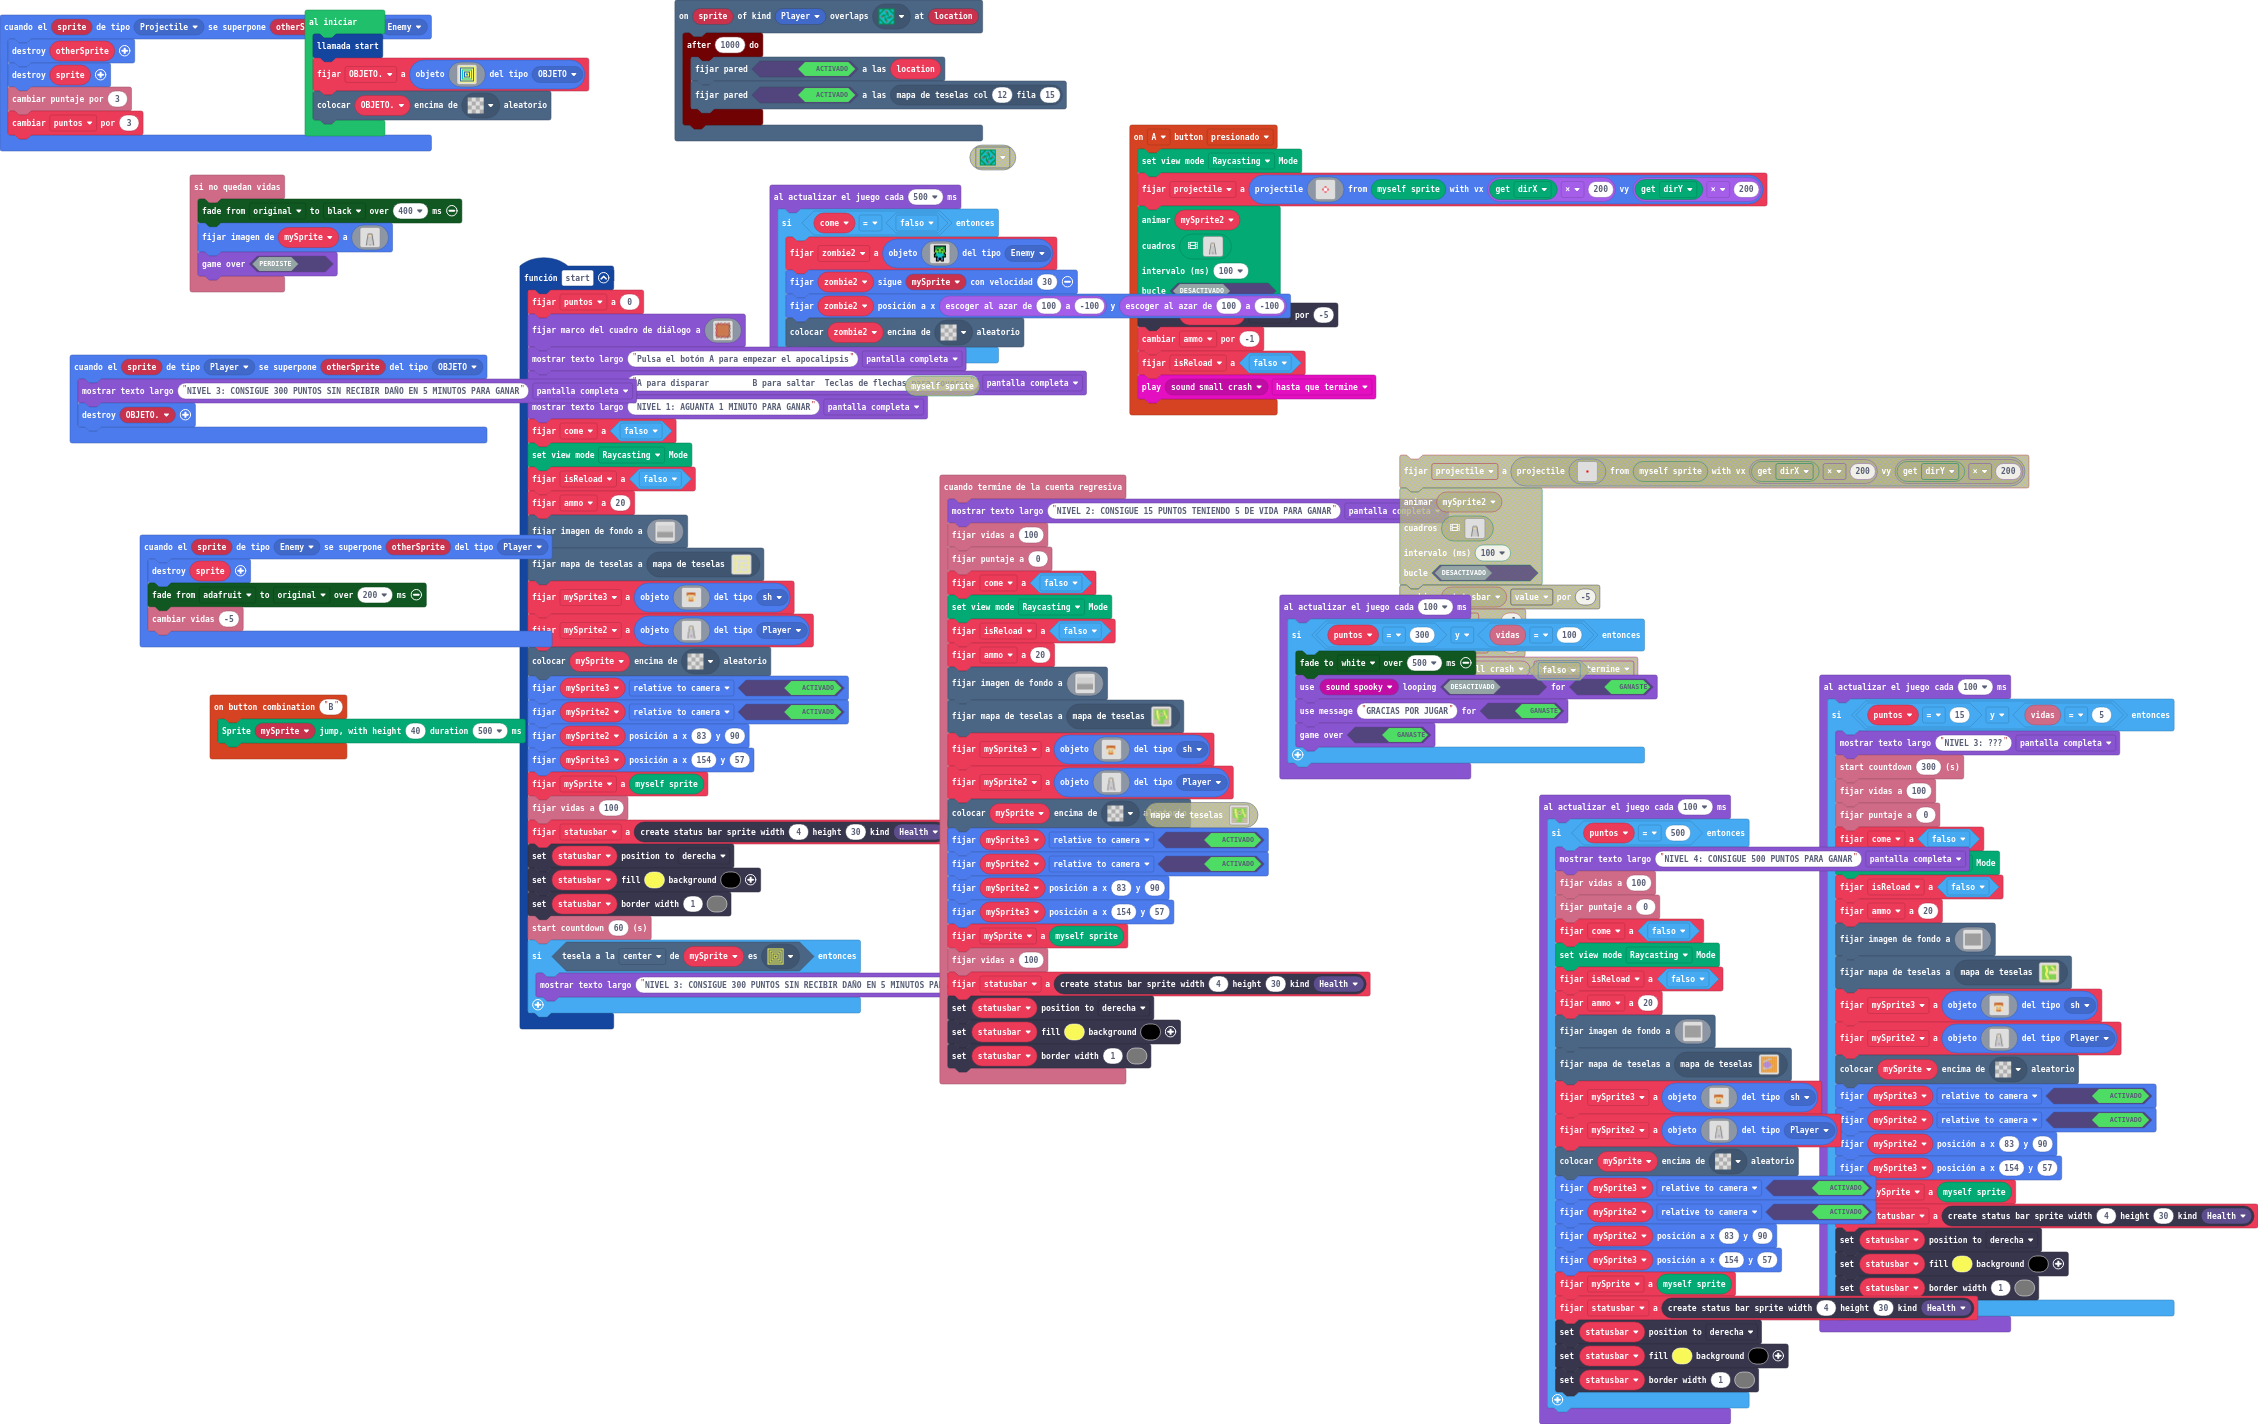
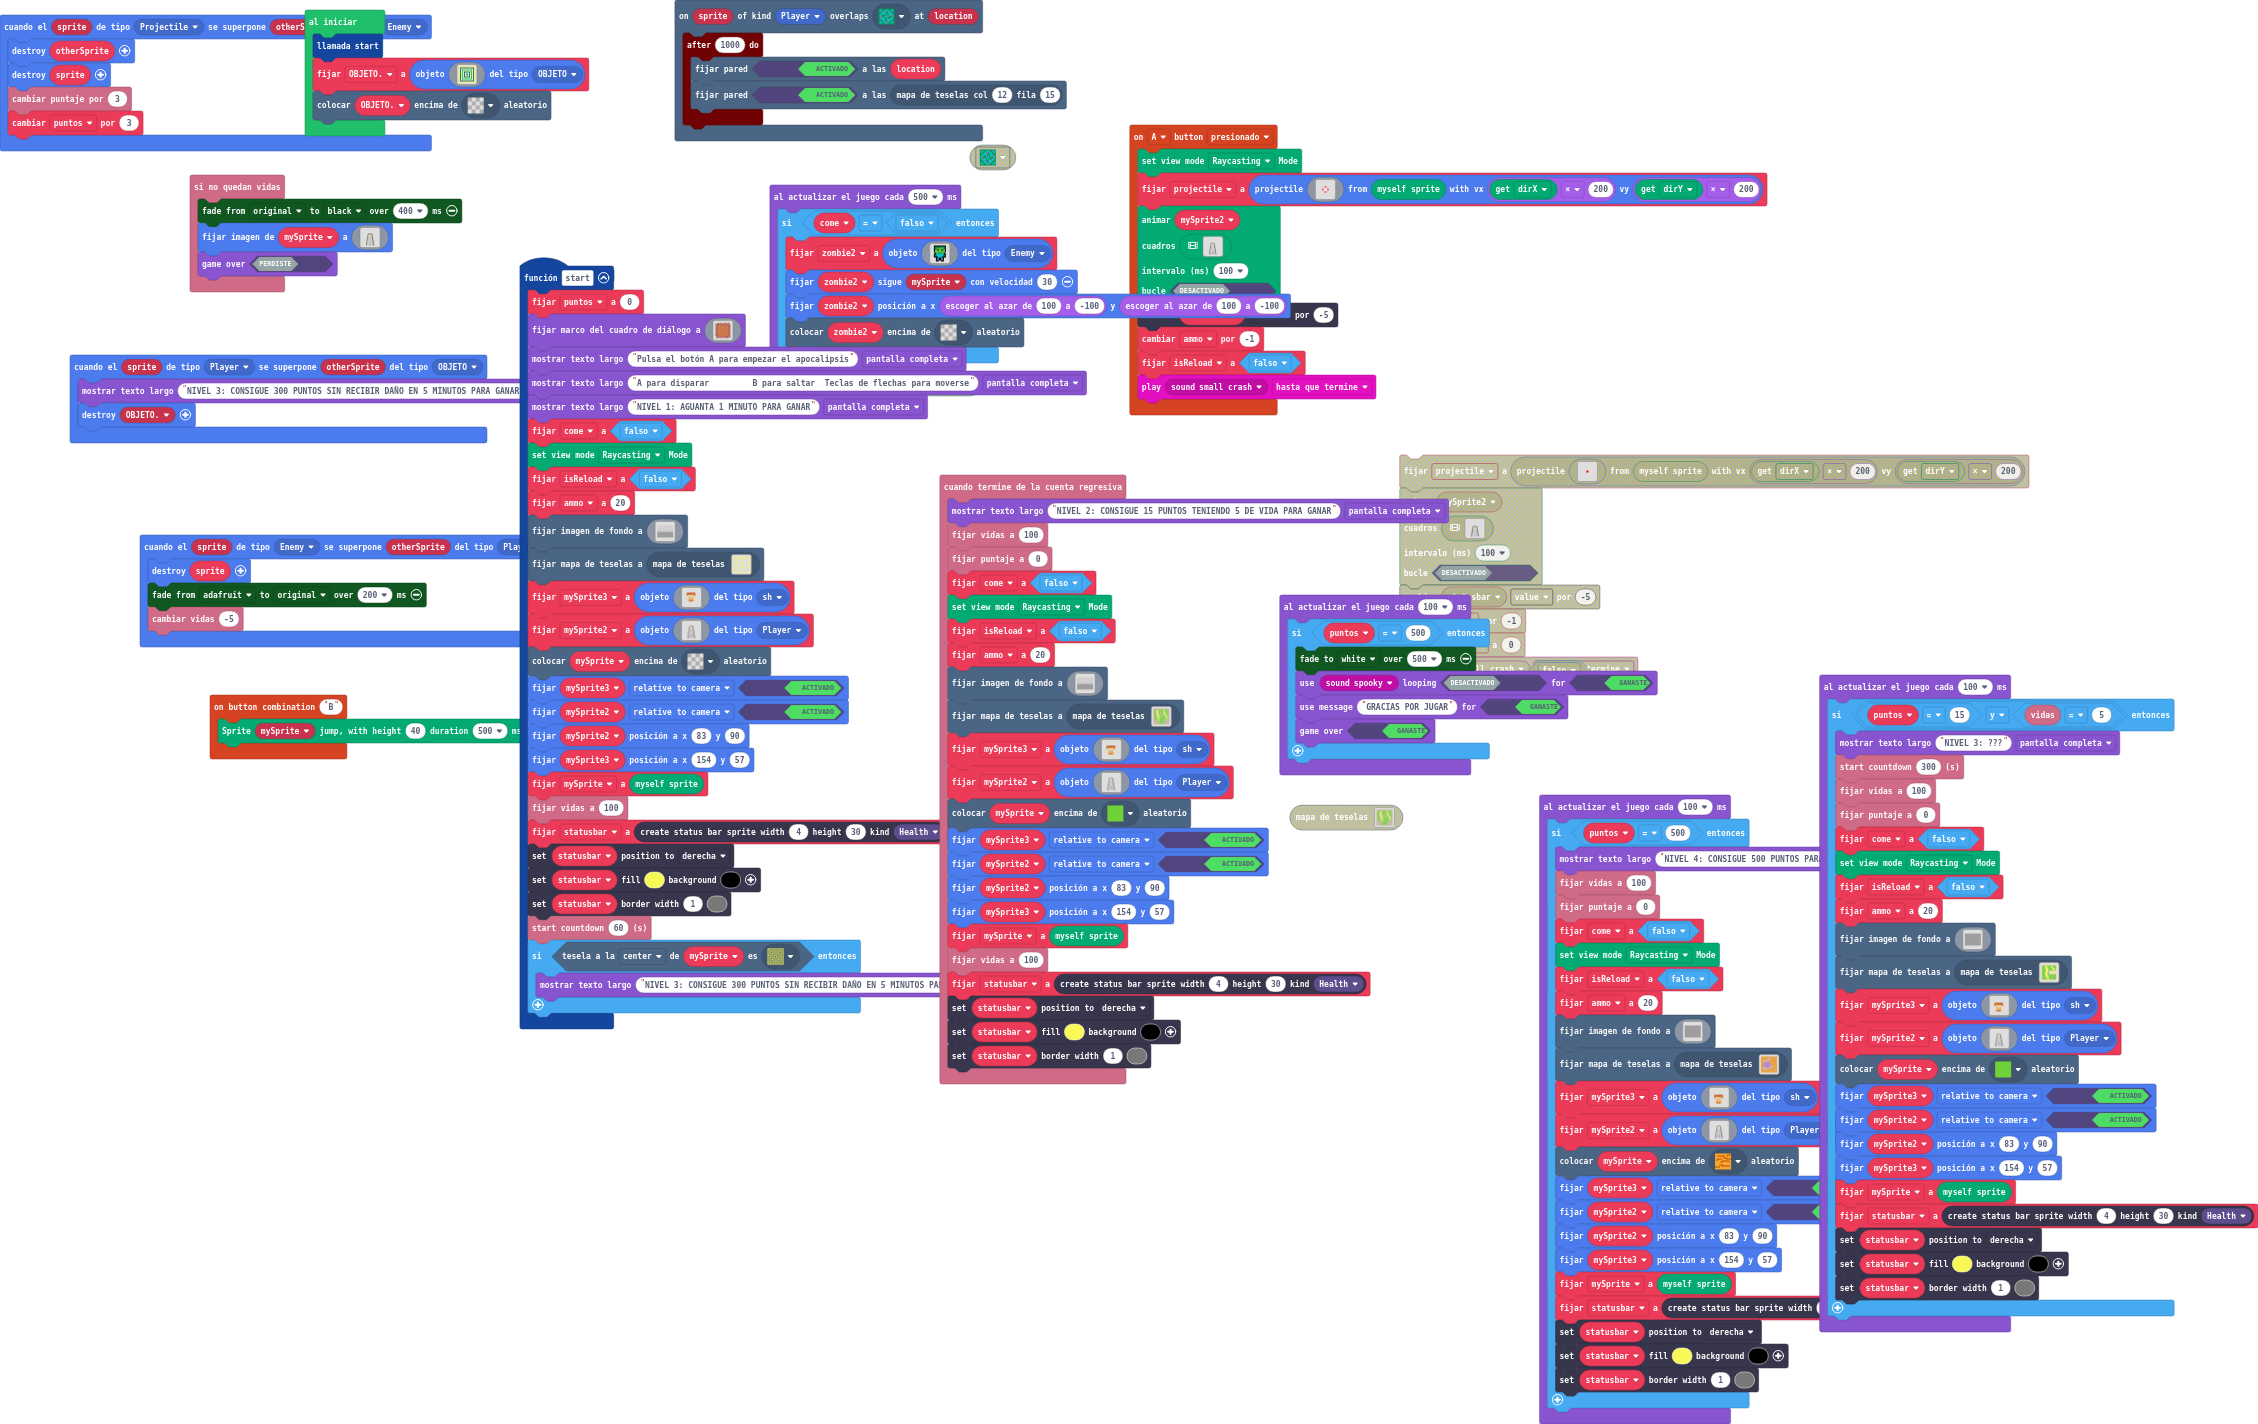
Actualizar main.blocks, main.ts

diff --git a/main.ts b/main.ts
@@ -384,7 +384,7 @@ info.onCountdownEnd(function () {
         ...........fccbbbbbbbbbbbbbbbbbbbbbbccf...........
         ...........fccbbbbbbbbbbbbbbbbbbbbbbccf...........
         `, SpriteKind.Player)
-    tiles.placeOnRandomTile(mySprite, assets.tile`transparency16`)
+    tiles.placeOnRandomTile(mySprite, sprites.skillmap.islandTile4)
     mySprite3.setFlag(SpriteFlag.RelativeToCamera, true)
     mySprite2.setFlag(SpriteFlag.RelativeToCamera, true)
     mySprite2.setPosition(83, 90)
@@ -805,7 +805,7 @@ game.onUpdateInterval(500, function () {
     }
 })
 game.onUpdateInterval(100, function () {
-    if (puntos == 300 && info.life() == 100) {
+    if (puntos == 500) {
         color.startFadeFromCurrent(color.White, 500)
         game.setGameOverPlayable(true, music.melodyPlayable(music.spooky), false)
         game.setGameOverMessage(true, "GRACIAS POR JUGAR")
@@ -1024,7 +1024,7 @@ game.onUpdateInterval(100, function () {
             ...........fccbbbbbbbbbbbbbbbbbbbbbbccf...........
             ...........fccbbbbbbbbbbbbbbbbbbbbbbccf...........
             `, SpriteKind.Player)
-        tiles.placeOnRandomTile(mySprite, assets.tile`transparency16`)
+        tiles.placeOnRandomTile(mySprite, sprites.skillmap.islandTile4)
         mySprite3.setFlag(SpriteFlag.RelativeToCamera, true)
         mySprite2.setFlag(SpriteFlag.RelativeToCamera, true)
         mySprite2.setPosition(83, 90)
@@ -1247,7 +1247,7 @@ game.onUpdateInterval(100, function () {
             ...........fccbbbbbbbbbbbbbbbbbbbbbbccf...........
             ...........fccbbbbbbbbbbbbbbbbbbbbbbccf...........
             `, SpriteKind.Player)
-        tiles.placeOnRandomTile(mySprite, assets.tile`transparency16`)
+        tiles.placeOnRandomTile(mySprite, assets.tile`tile46`)
         mySprite3.setFlag(SpriteFlag.RelativeToCamera, true)
         mySprite2.setFlag(SpriteFlag.RelativeToCamera, true)
         mySprite2.setPosition(83, 90)
